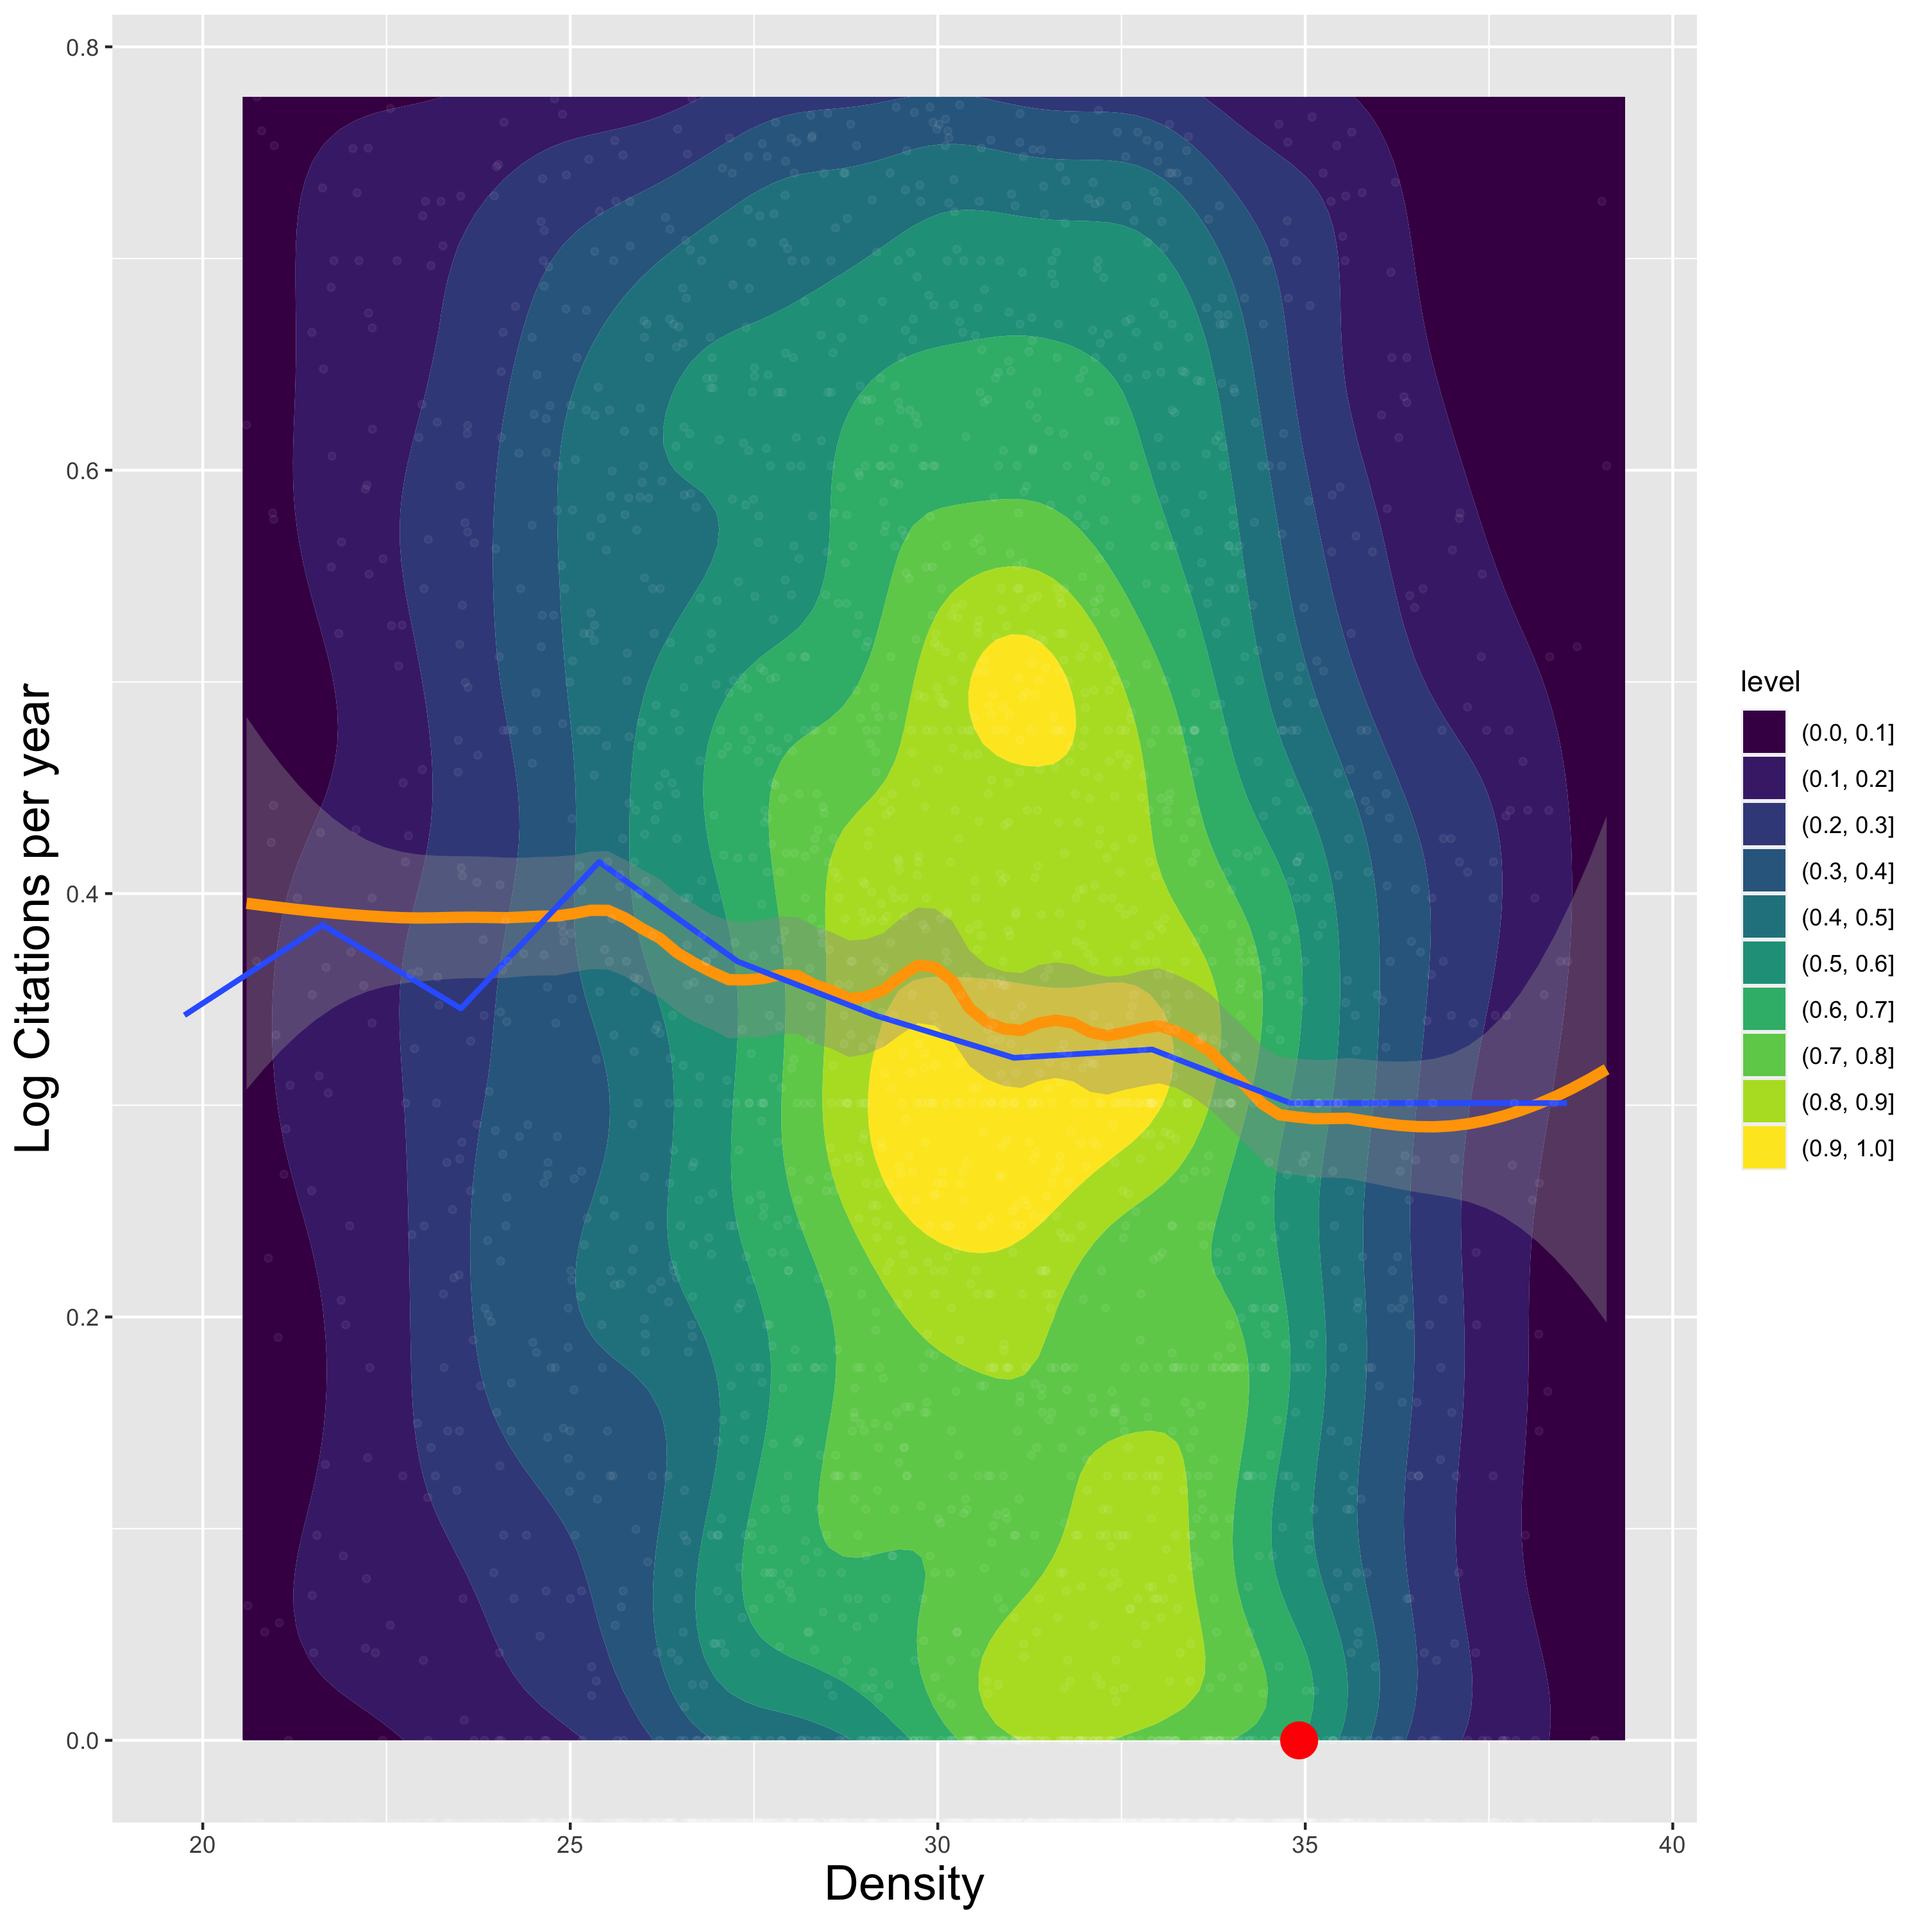
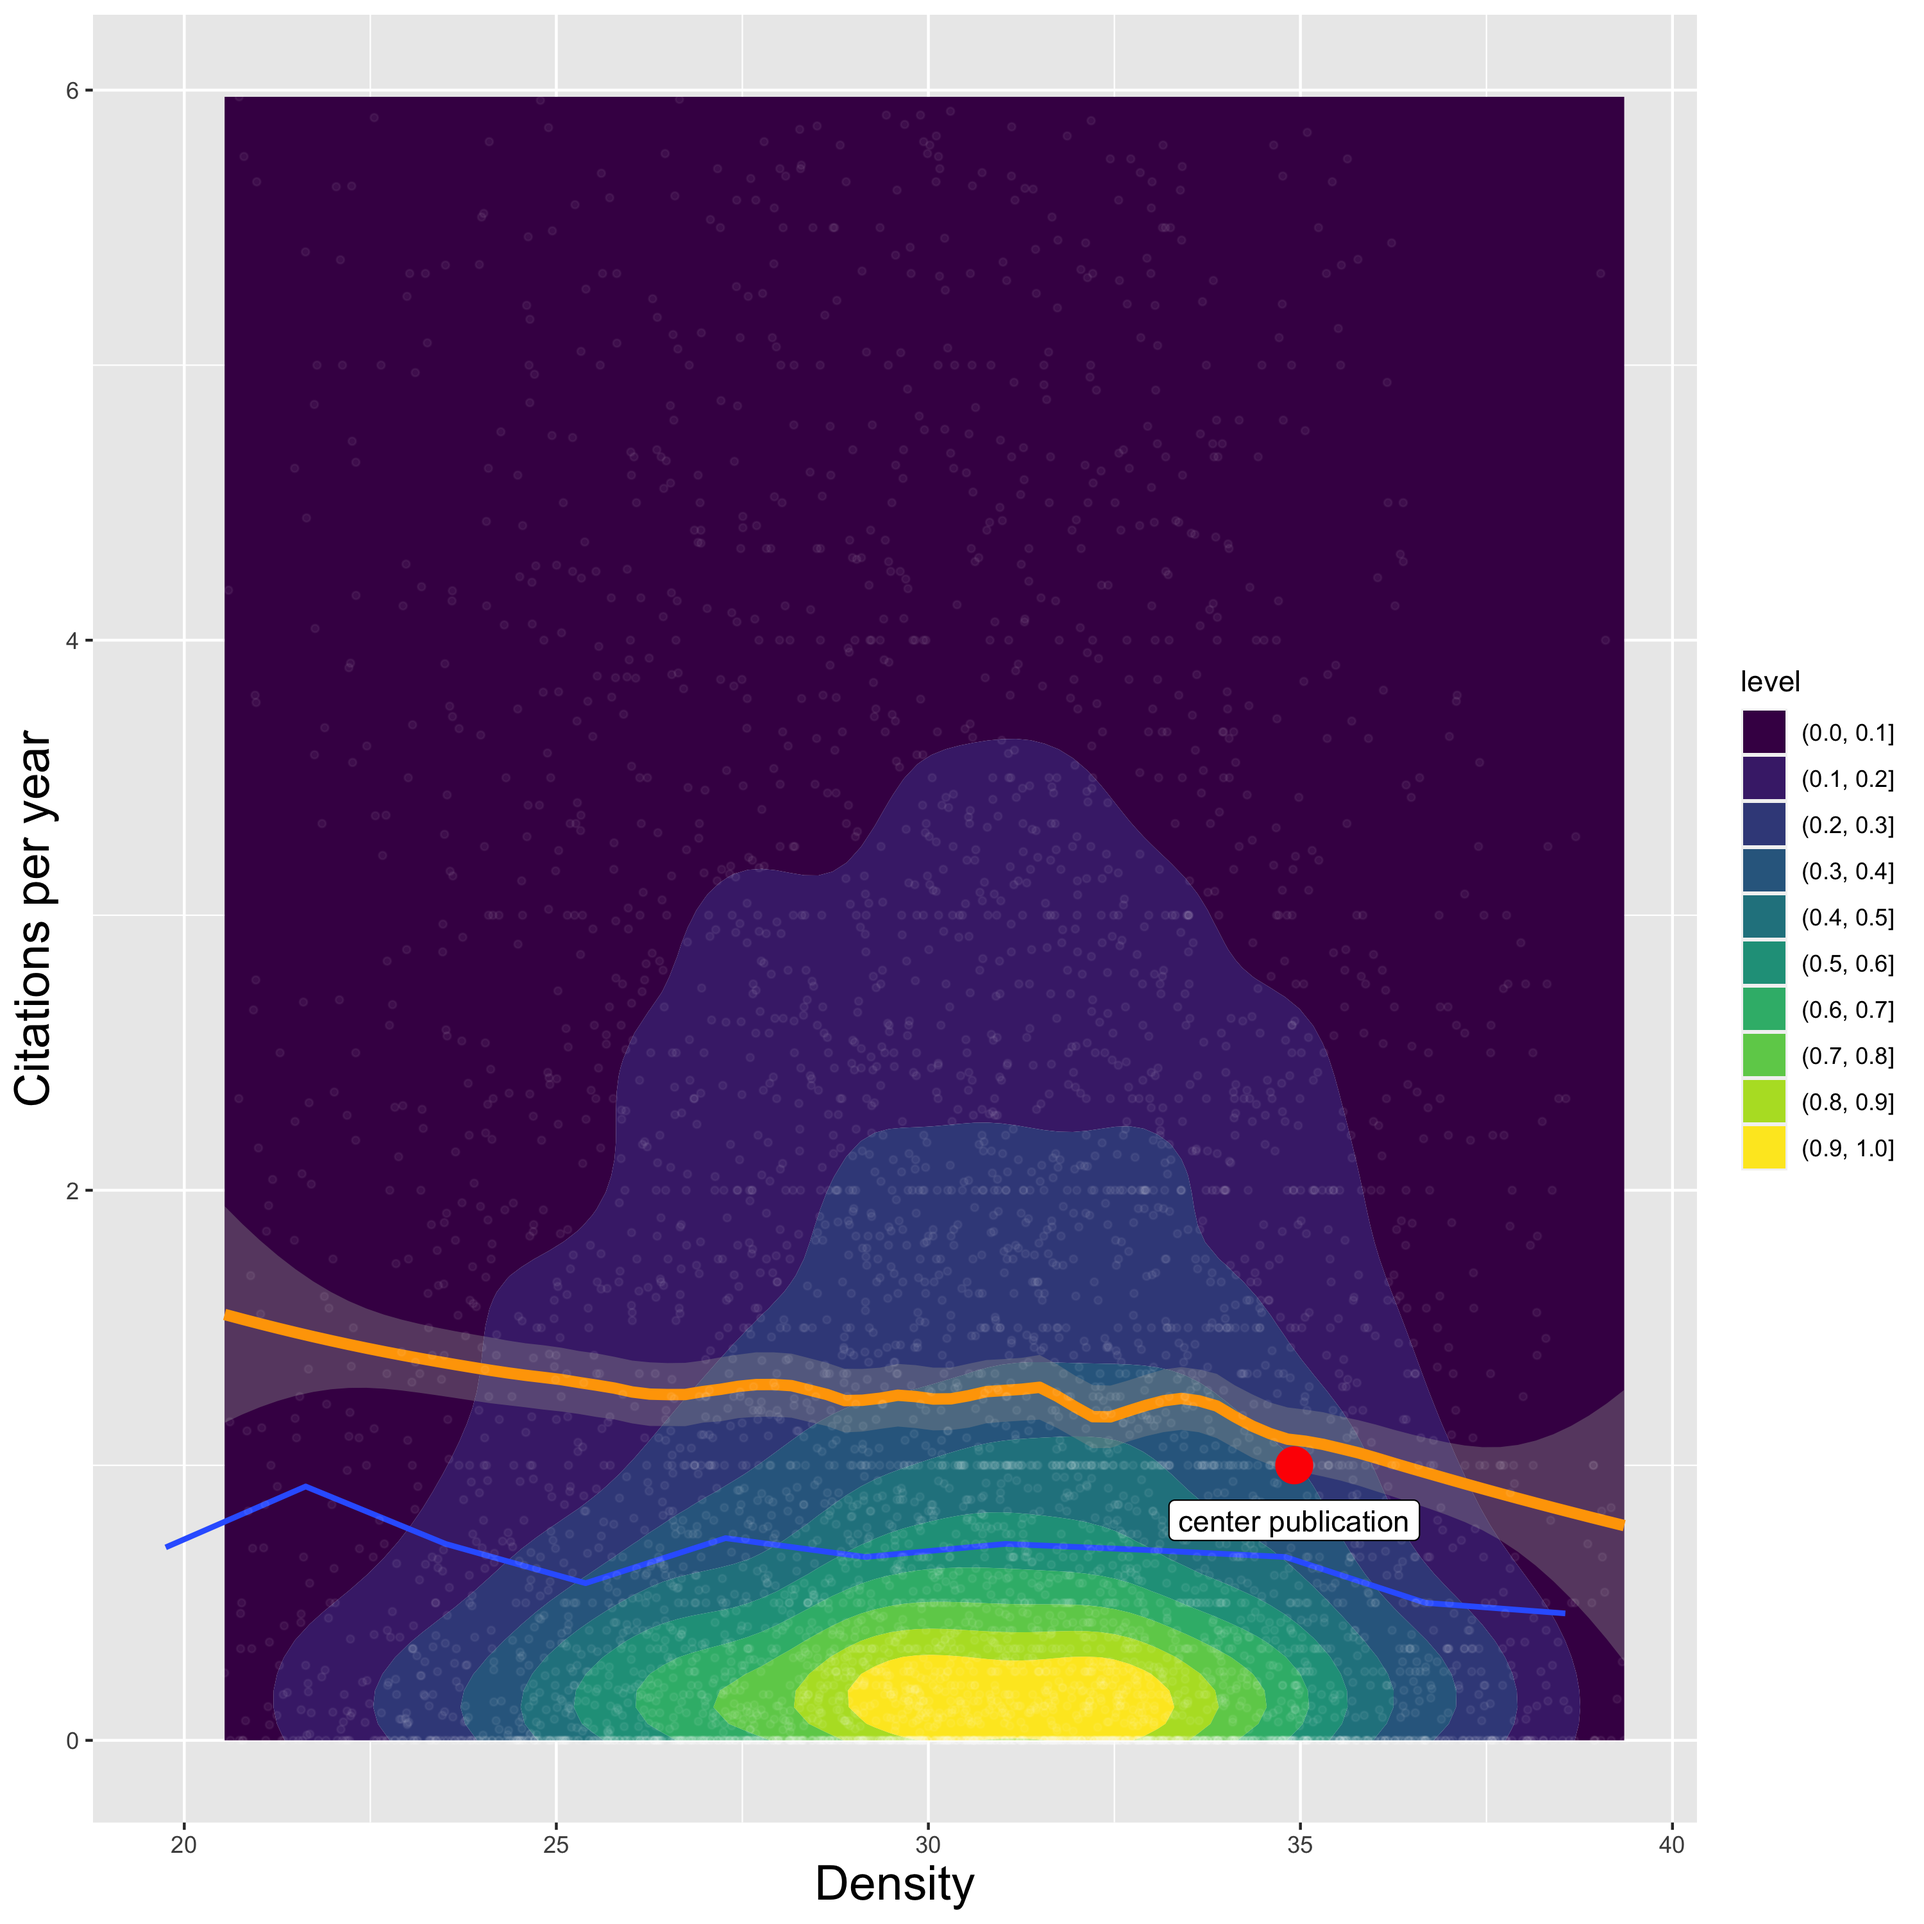
add logcpy flag to R script and hydra plot config

diff --git a/src/analyze.py b/src/analyze.py
@@ -51,6 +51,7 @@ def main(config: DictConfig):
     plot.call_r_2d_histograms(
         df_fn,
         max_density=config.experiment.plot.max_density,
+        log_cpy=config.experiment.plot.log_cpy,
     )
 
 
